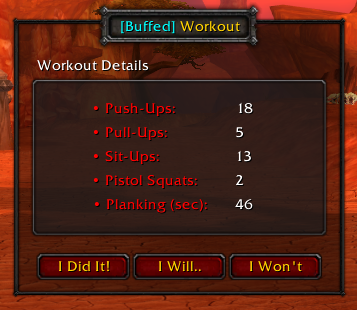
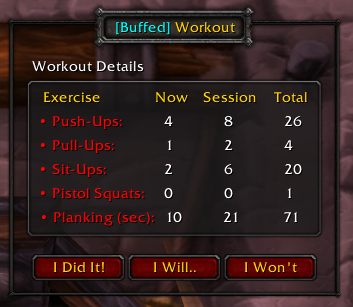
updated screenshot

diff --git a/README.md b/README.md
@@ -15,7 +15,9 @@
 </table>
 
 
-Buffed is a World of Warcraft addon that transforms your in-game downtime into an opportunity to track your fitness goals. This addon provides real-time workout tracking and calorie calculations based on your physical details, helping you stay "buffed" in and out of the game.
+**Buffed** is a World of Warcraft addon that transforms your in-game downtime into an opportunity to track your fitness goals. This addon provides real-time workout tracking and calorie calculations based on your physical details, helping you stay "buffed" both in and out of the game.
+
+---
 
 ## Features
 
@@ -26,8 +28,9 @@ Buffed is a World of Warcraft addon that transforms your in-game downtime into a
   - Sit-ups
   - Pistol squats
   - Planking (seconds)
-- **Real-Time Feedback**: Displays your workout results and calories burned when you finish resting in-game.
-- **Customizable Options**: Input your physical details and instantly calculate your calorie burn rate.
+- **Session and Total Tracking**: Displays exercise stats for your current session and total progress.
+- **Customizable Options**: Input your weight, height, and gender to personalize your calorie burn calculations.
+- **Real-Time Workout Alerts**: When you finish resting in-game, Buffed pops up to display your workout plan.
 
 ## Installation
 
@@ -52,33 +55,47 @@ In the Buffed options menu, you can:
 
 ![Buffed Menu](https://raw.githubusercontent.com/wsmaxcy/Buffed/main/screenshots/menu.png)
 
-## Workout Tracking
+## How It Works
 
-Buffed automatically tracks your workout progress whenever you are resting in-game. It calculates the calories burned based on your inputs and displays a detailed breakdown of your workout when you leave the resting state.
+- **Resting Detection**: Buffed automatically activates when you rest (e.g., at inns or cities).  
+- **Workout Plan**: It calculates exercises like push-ups, pull-ups, sit-ups, and planking based on how long you've been resting.  
+- **Pop-Up Alert**: Upon leaving the resting state, a pop-up appears with your personalized workout.  
 
-![Workout Summary](https://raw.githubusercontent.com/wsmaxcy/Buffed/main/screenshots/workout.png)
+---
 
-### Workout Results
+### Workout Results Display
 
-Upon completing your rest, Buffed will show a popup with your workout summary, including:
-- Number of push-ups, pull-ups, sit-ups, and pistol squats completed.
-- Total seconds spent planking.
+The popup provides:  
+- **Now**: Exercises calculated based on the latest rest period.  
+- **Session**: Cumulative exercises during your current gaming session.  
+- **Total**: All-time tracked exercises.  
 
-![Workout Results](https://raw.githubusercontent.com/wsmaxcy/Buffed/main/screenshots/message.png)
+---
 
-## Configuration
+## Commands
 
-You can configure Buffed to suit your preferences by:
-- Entering your weight and height.
-- Selecting your gender.
-- Adjusting your calorie burn rate.
+- **`/buffed`**: Opens the main configuration menu.  
+- **`/buffed clear`**: Resets session and total counts for all exercises.  
 
-Changes are saved for your current session.
+---
+
+## Known Issues
+
+- **Total Exercises Not Showing on First Load**:  
+  The "Total" column in the Buffed frame may not populate the first time the frame opens in a session. Closing and reopening the frame resolves the issue.  
+
+---
 
 ## Feedback and Bug Reports
 
-Have ideas to improve Buffed or found a bug? Let us know! Submit issues and suggestions via the [Issues](https://github.com/wsmaxcy/Buffed/issues) section. You can also message me in-game on **Turtle-WoW** as **Clempton**, **Clumpton**, or **Fruiter**.
+If you have ideas for improving Buffed or encounter bugs, let us know!  
+
+- Submit feedback via the [Issues](https://github.com/wsmaxcy/Buffed/issues) section on GitHub.  
+- Alternatively, message me in-game on **Turtle-WoW** as **Clempton**, **Clumpton**, or **Fruiter**.  
+
+---
 
 ## License
 
-Buffed is open source and released under the [MIT License](https://github.com/git/git-scm.com/blob/main/MIT-LICENSE.txt). Feel free to use, modify, and distribute it as you wish.
+Buffed is open source and released under the [MIT License](https://github.com/git/git-scm.com/blob/main/MIT-LICENSE.txt).  
+Feel free to use, modify, and distribute it as you wish.
